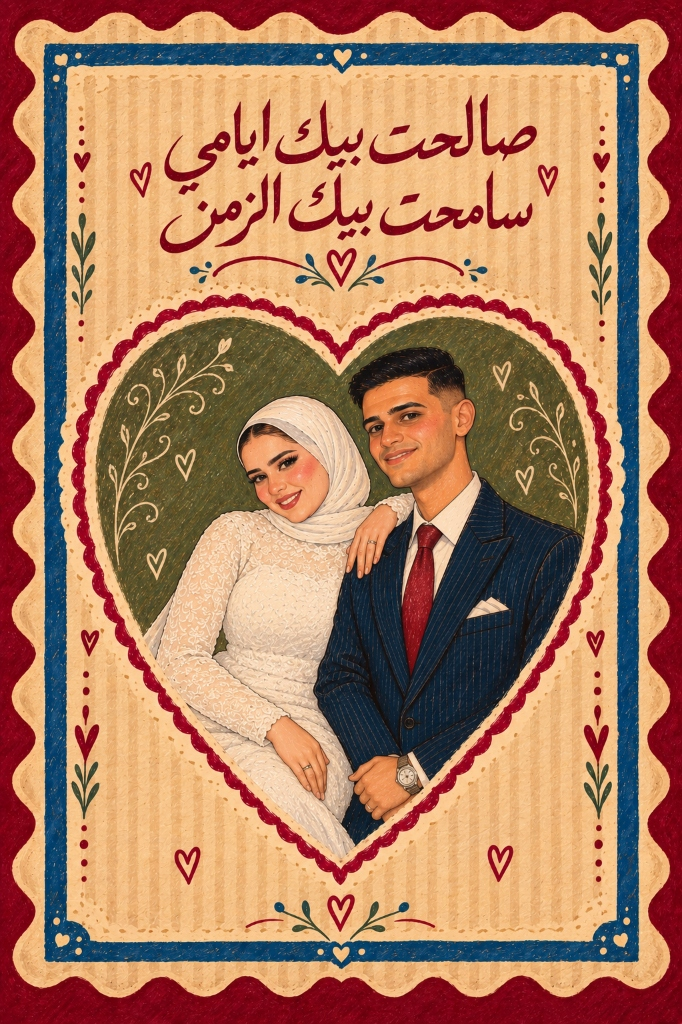
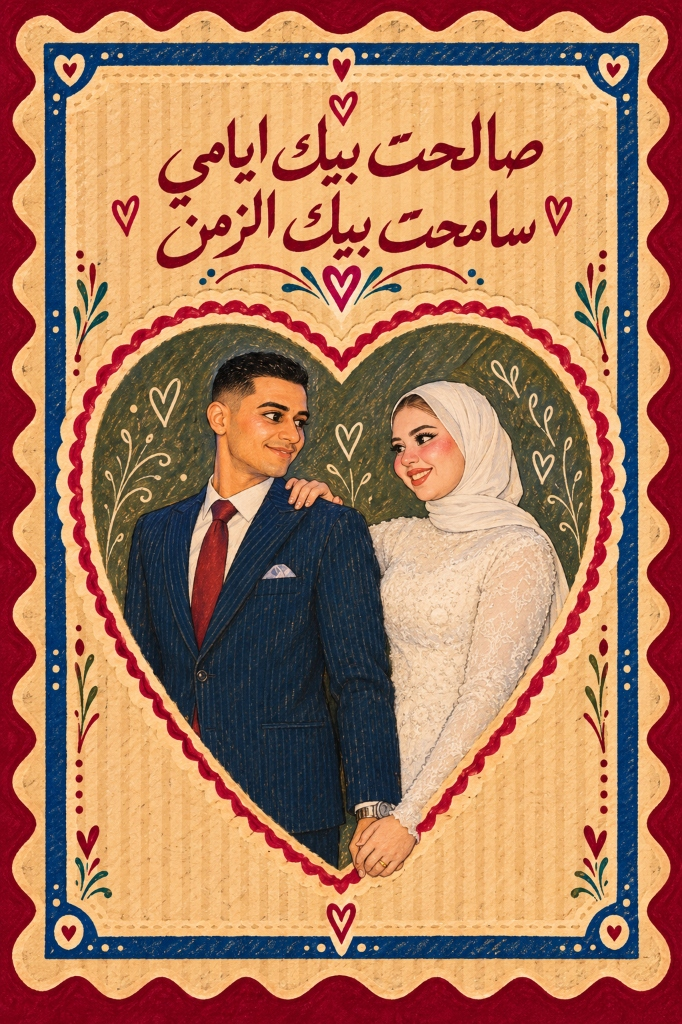
feat: replace couple artwork with new high-res image and natural aspect ratio

diff --git a/src/components/HeroSection.jsx b/src/components/HeroSection.jsx
@@ -116,33 +116,23 @@ export default function HeroSection() {
           <div
             className="editorial-card"
             style={{
-              padding: '0.75rem',
+              padding: '0.65rem',
               backgroundColor: 'rgba(255, 255, 255, 0.95)',
               boxShadow: '0 20px 50px -10px rgba(41, 35, 28, 0.16), 0 0 0 1px rgba(197, 160, 89, 0.35)',
               borderRadius: '12px',
+              overflow: 'hidden',
             }}
           >
-            <div
+            <img
+              src={weddingConfig.coupleDetails.artPhoto}
+              alt="Mostafa & Rawan"
               style={{
-                position: 'relative',
-                overflow: 'hidden',
+                width: '100%',
+                height: 'auto',
+                display: 'block',
                 borderRadius: '8px',
-                aspectRatio: '2 / 3',
-                backgroundColor: '#FAF5ED',
-                border: '1px solid rgba(197, 160, 89, 0.25)',
               }}
-            >
-              <img
-                src={weddingConfig.coupleDetails.artPhoto}
-                alt="Mostafa & Rawan"
-                style={{
-                  width: '100%',
-                  height: '100%',
-                  objectFit: 'cover',
-                  display: 'block',
-                }}
-              />
-            </div>
+            />
           </div>
         </div>
 

diff --git a/src/config/weddingConfig.js b/src/config/weddingConfig.js
@@ -47,7 +47,7 @@ export const weddingConfig = {
   },
 
   coupleDetails: {
-    artPhoto: "/images/mostafa-rawan-art.jpg",
+    artPhoto: "/images/mostafa-rawan-art.jpg?v=artwork-v3",
   },
 
   // Timeline without katb ketab as requested
